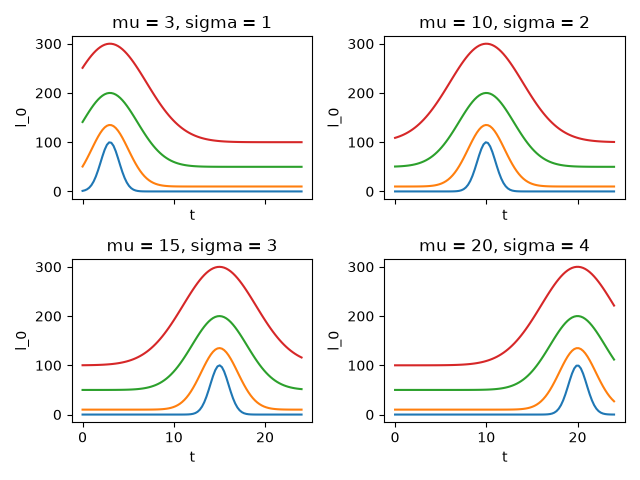
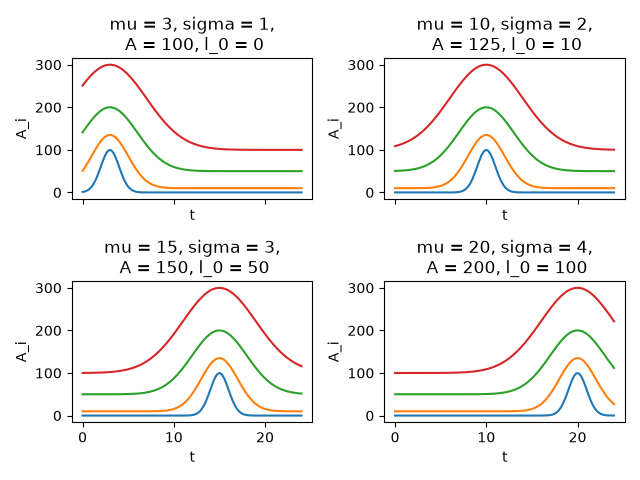
fiksa på figur av ulike gauss-kurver

diff --git a/ovingar/Oving5/oving5.py b/ovingar/Oving5/oving5.py
@@ -27,9 +27,9 @@ for i in range(len(mu)):
     ax = axs[row, col]
     for j in range(len(mu)):
         ax.plot(t, l_0[j] + gauss_curve(t, a[j], mu[i], sigma[j]))
-    ax.set_title(f"mu = {mu[i]}, sigma = {sigma[i]}")
+    ax.set_title(f"mu = {mu[i]}, sigma = {sigma[i]},\n A = {a[i]}, l_0 = {l_0[i]}")
     ax.set_xlabel("t")
-    ax.set_ylabel("l_0")
+    ax.set_ylabel("A_i")
 
 plt.tight_layout()
 plt.savefig("elk320/elk330/ovingar/Oving5/figurer/gauss_curve.png")
